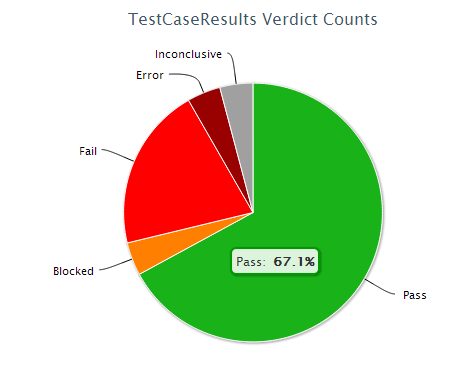
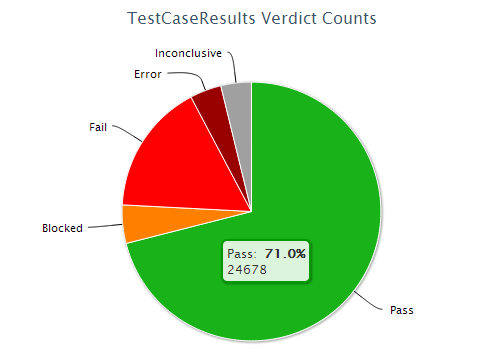
included value in addition to percentage in tooltip

diff --git a/deploy/App.html b/deploy/App.html
@@ -18,6 +18,9 @@
         this._myMask.show();
          this._myStore = Ext.create('Rally.data.WsapiDataStore', {
            model: 'Test Case Result',
+           context:{
+                project: null,
+           },
            limit:Infinity,
            fetch: ['Verdict','TestCase','TestSet'],
            autoLoad: true,
@@ -47,8 +50,9 @@
             };
 
             Ext.Array.each(data, function(record) {
-
                 verdict = record.get('Verdict');
+                //var testcase = record.get('TestCase').FormattedID;
+                console.log(verdict);
 
                 switch(verdict)
                 {
@@ -88,7 +92,7 @@
                         },
                         tooltip: {
                             formatter: function () {
-                               return this.point.name + ': <b>' + Highcharts.numberFormat(this.percentage, 1) + '%</b>';
+                               return this.point.name + ': <b>' + Highcharts.numberFormat(this.percentage, 1) + '%</b><br />' + this.point.y;
                                 }
                         },
                         plotOptions : {

diff --git a/src/App.js b/src/App.js
@@ -7,6 +7,9 @@
         this._myMask.show();
          this._myStore = Ext.create('Rally.data.WsapiDataStore', {
            model: 'Test Case Result',
+           context:{
+                project: null,
+           },
            limit:Infinity,
            fetch: ['Verdict','TestCase','TestSet'],
            autoLoad: true,
@@ -36,8 +39,9 @@
             };
 
             Ext.Array.each(data, function(record) {
-
                 verdict = record.get('Verdict');
+                //var testcase = record.get('TestCase').FormattedID;
+                console.log(verdict);
 
                 switch(verdict)
                 {
@@ -77,7 +81,7 @@
                         },
                         tooltip: {
                             formatter: function () {
-                               return this.point.name + ': <b>' + Highcharts.numberFormat(this.percentage, 1) + '%</b>';
+                               return this.point.name + ': <b>' + Highcharts.numberFormat(this.percentage, 1) + '%</b><br />' + this.point.y;
                                 }
                         },
                         plotOptions : {

diff --git a/README.md b/README.md
@@ -3,6 +3,7 @@ All Test Case Results in the Workspace by Verdict
 
 ## Overview
 ![](pic.png)
+
 This app is available on an as-is basis. Rally Software does not provide any support for it.
 ## License
 
